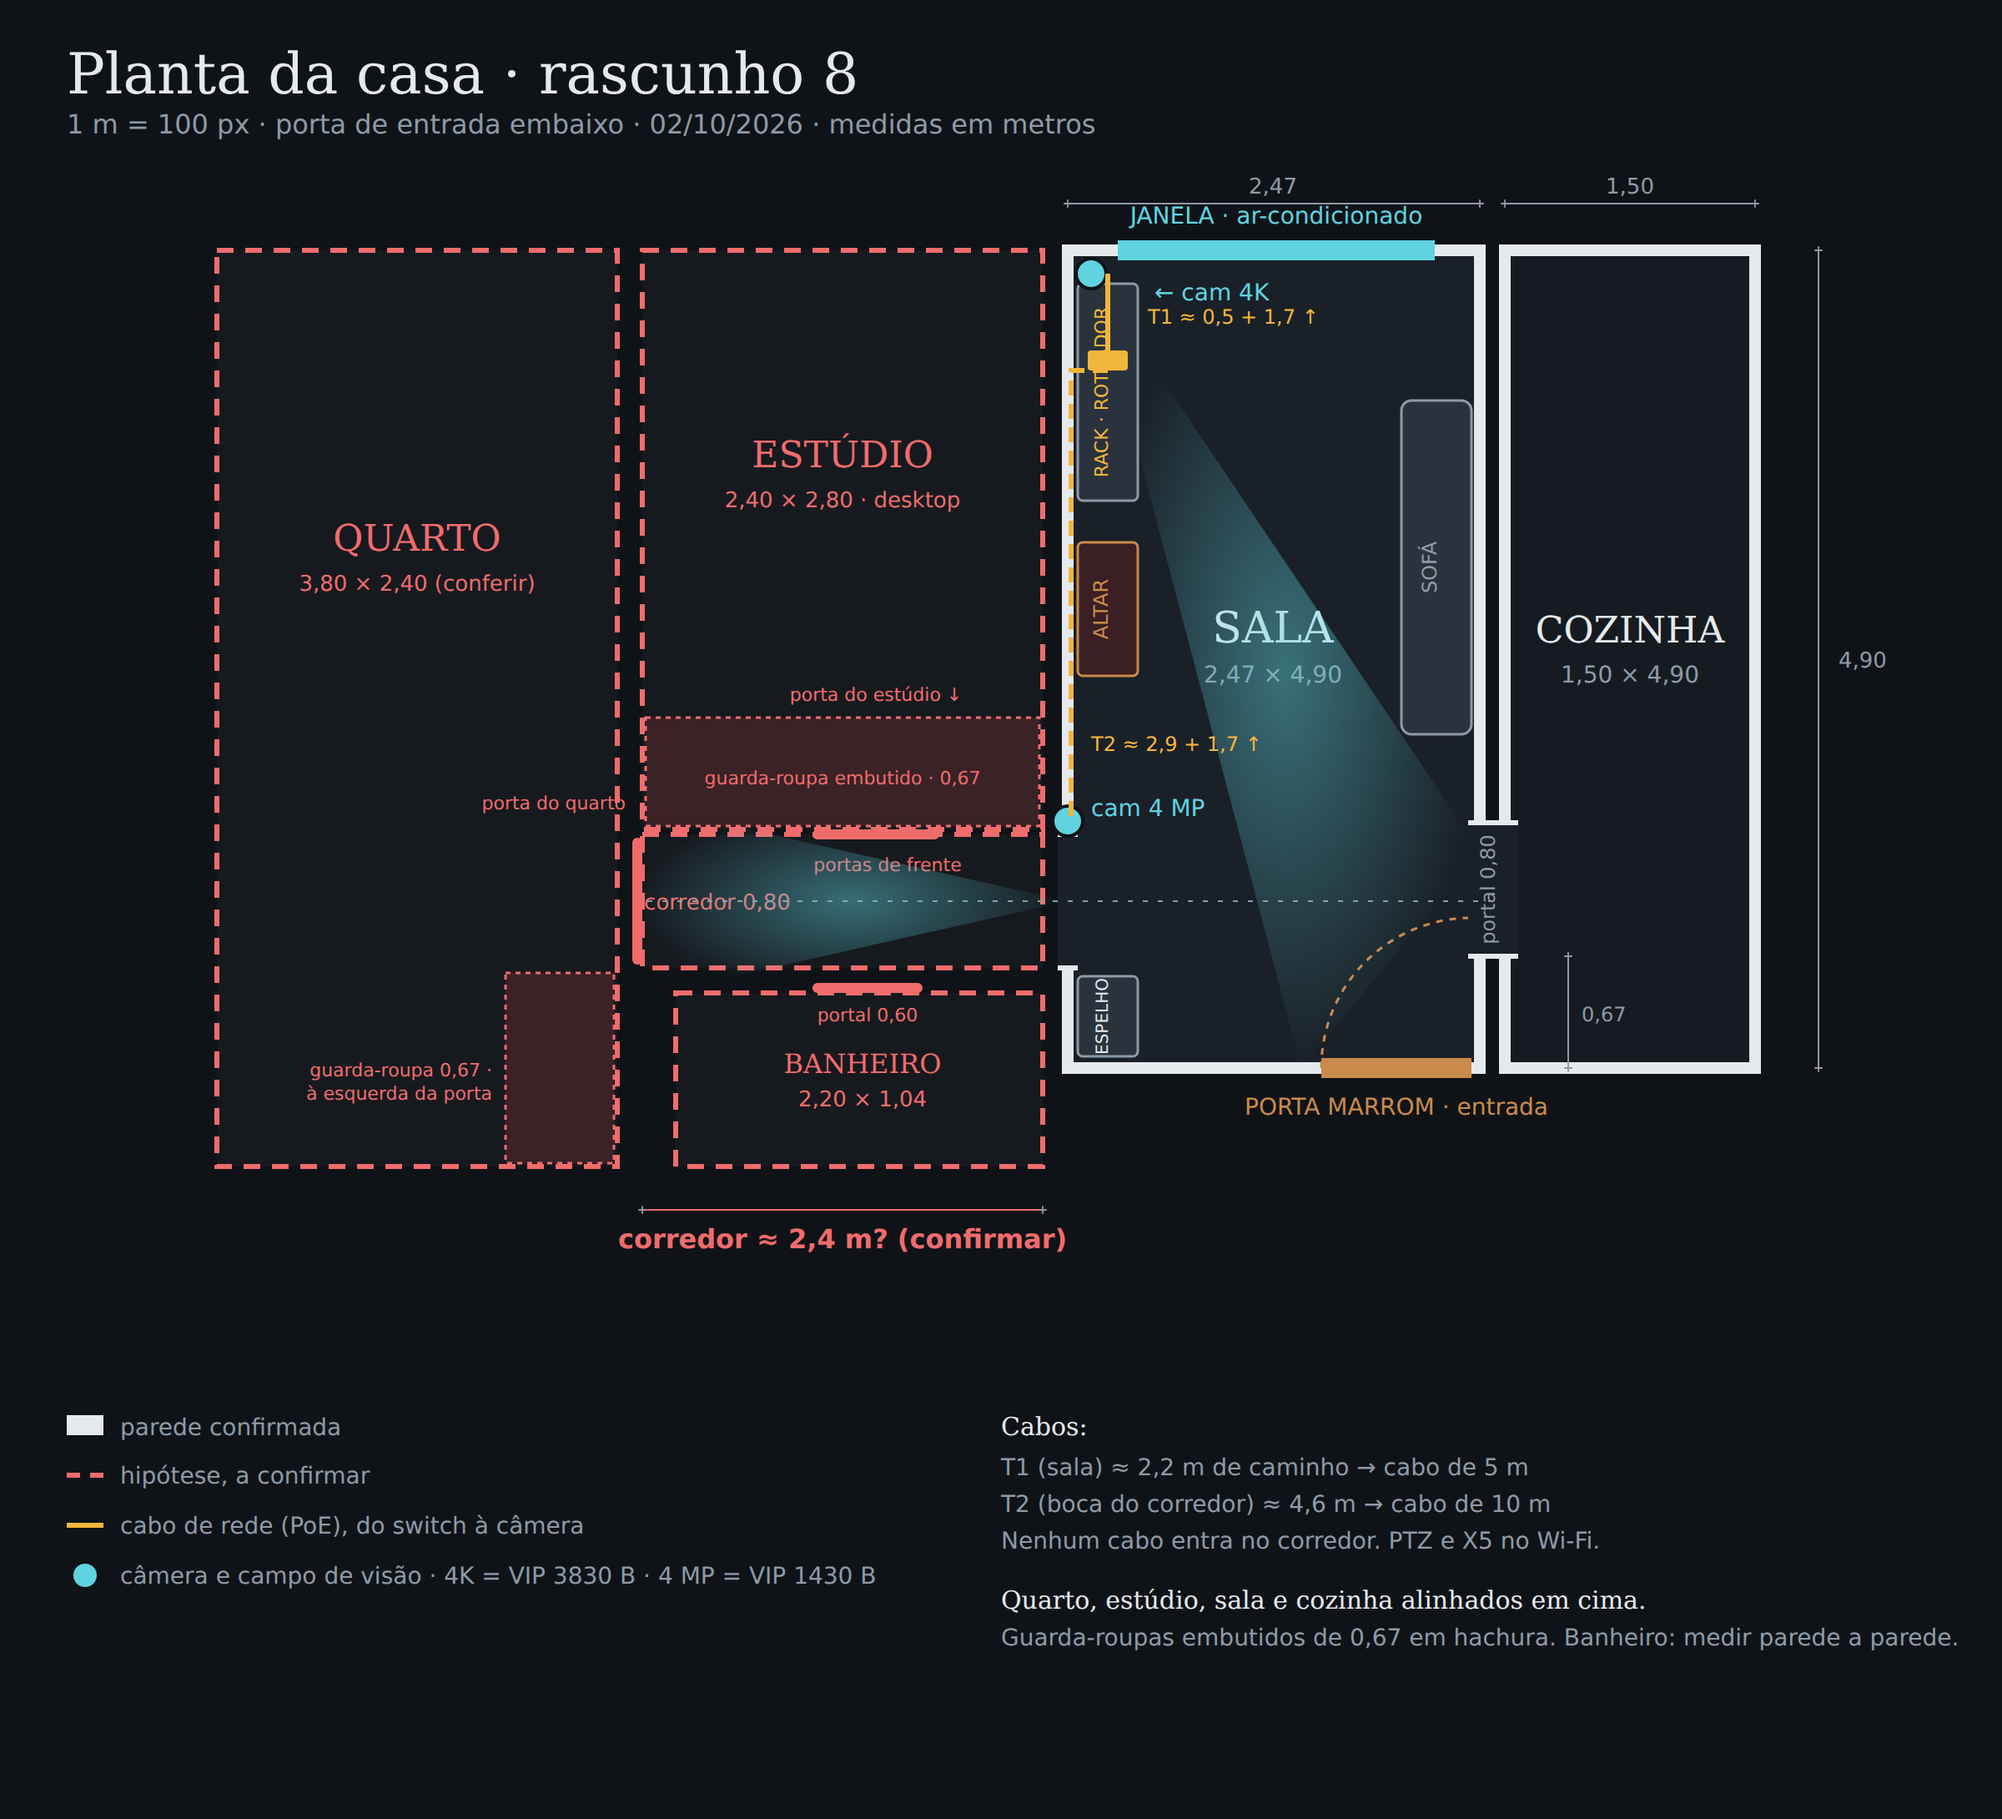
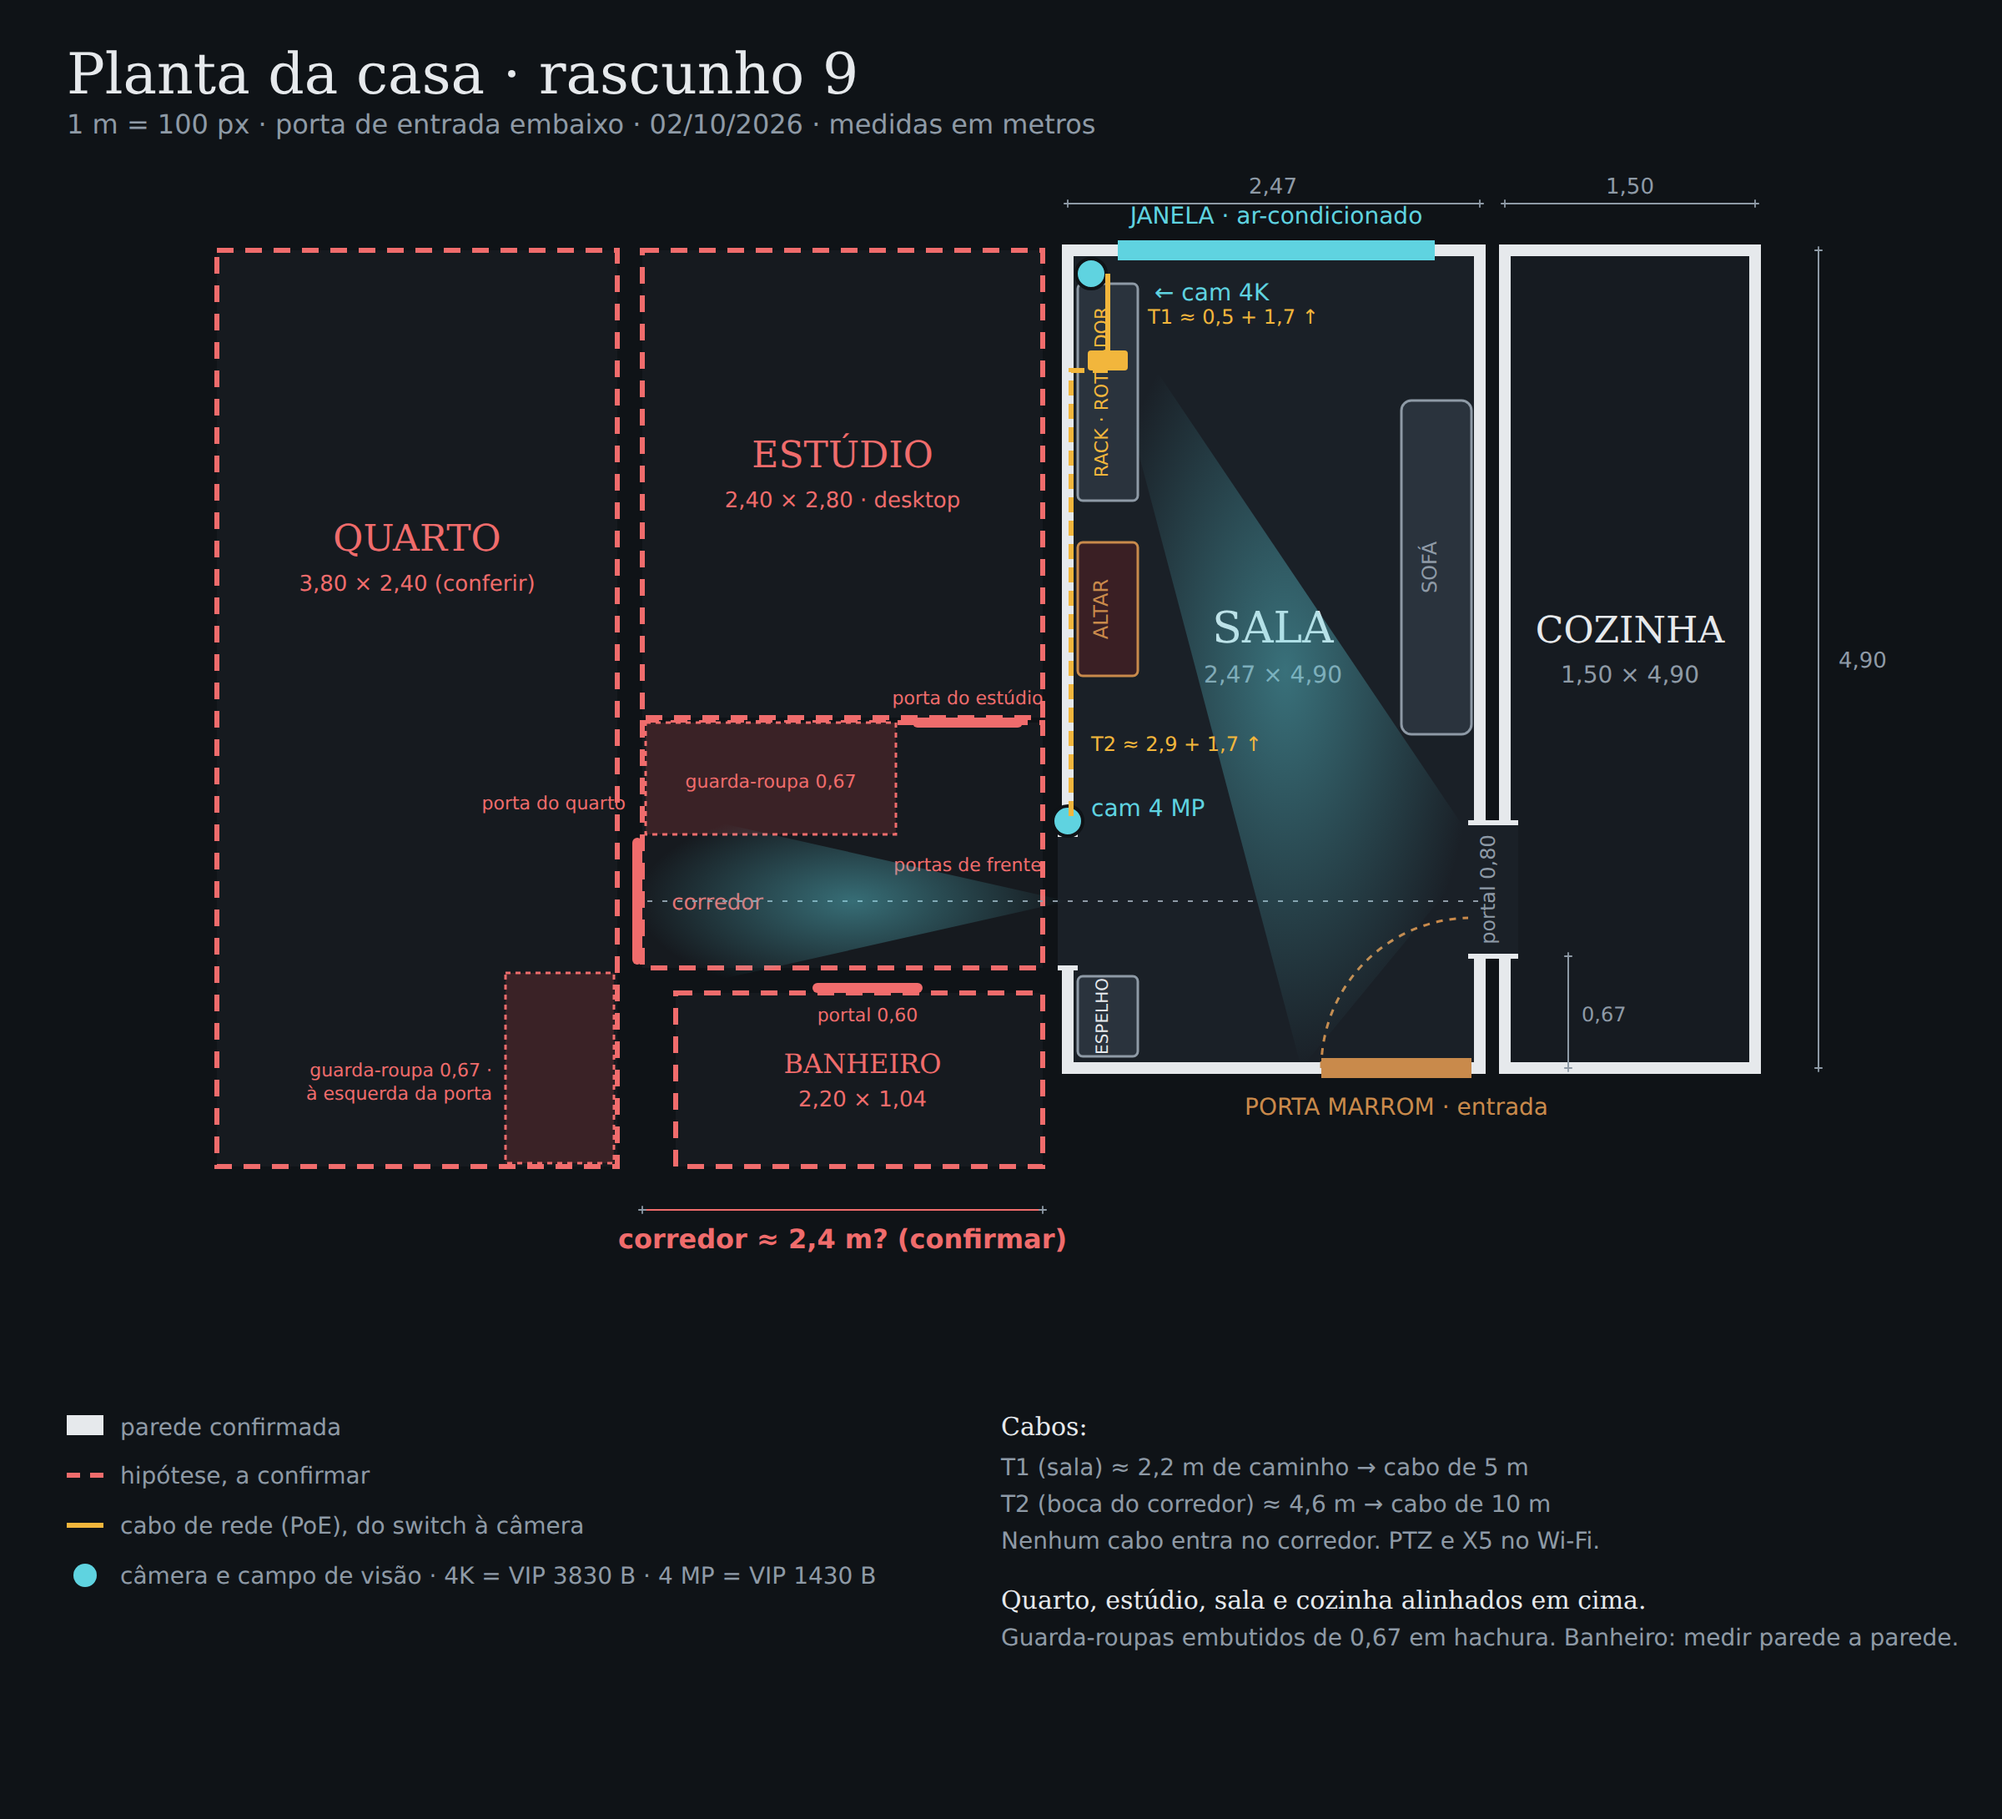
Planta rascunho 9 e página de cabos com medidas fechadas e planta embutida
Claude-Session: https://claude.ai/code/session_01F69cVt87X4mSze32jm77sF

Changed region(s): [[0.3125, 0.3743, 0.5312, 0.4991], [0.4062, 0.0312, 0.4375, 0.0624]]

diff --git a/cameras/esquema-cabos.html b/cameras/esquema-cabos.html
@@ -66,10 +66,12 @@ footer{margin-top:40px;font-size:.8rem;color:var(--muted)}
 <div class="wrap">
   <div class="eyebrow">Visões Filmes · casa · 02/10/2026</div>
   <h1>Cabos das Câmeras</h1>
-  <p class="lede">Roteador Vivo e switch PoE ficam no rack da TV. Dois trechos de cabo de rede saem dali. Mede com trena, preenche os campos, a página calcula o que comprar. Os valores ficam salvos neste navegador.</p>
+  <p class="lede">Roteador Vivo e switch PoE ficam no rack da TV, na parede do altar. As duas câmeras ficam nessa mesma parede. Os campos já vêm com as medidas da planta; ajusta se a trena disser outra coisa. Os valores ficam salvos neste navegador.</p>
 
   <section>
-    <h2>Planta esquemática</h2>
+    <h2>Planta</h2>
+    <div class="panel plan" style="padding:8px"><img src="planta-rascunho.png" alt="Planta da casa com câmeras e cabos" style="width:100%;height:auto;display:block;border-radius:6px"></div>
+    <h2 style="margin-top:18px">Esquema dos trechos</h2>
     <div class="panel plan">
       <svg viewBox="0 0 760 420" role="img" aria-label="Planta esquemática do apartamento com roteador, switch, câmeras e trechos de cabo">
         <defs>
@@ -148,20 +150,20 @@ footer{margin-top:40px;font-size:.8rem;color:var(--muted)}
         <header><span class="tag cable">T1</span><strong>Switch → VIP 3830 B</strong><span class="tag">sala</span></header>
         <div class="path">Sai do rack, corre pelo rodapé ou atrás do rack até a quina da parede da janela, sobe até o ponto da câmera no alto.</div>
         <div class="fields">
-          <label>rack → quina (m)<input type="number" id="t1a" min="0" step="0.1" inputmode="decimal" placeholder="0,0"></label>
-          <label>subida até a câmera (m)<input type="number" id="t1b" min="0" step="0.1" inputmode="decimal" placeholder="0,0"></label>
+          <label>rack → quina (m)<input type="number" id="t1a" min="0" step="0.1" inputmode="decimal" placeholder="0,0" value="0.5"></label>
+          <label>subida até a câmera (m)<input type="number" id="t1b" min="0" step="0.1" inputmode="decimal" placeholder="0,0" value="1.7"></label>
         </div>
         <div class="result"><span>Caminho <b id="t1sum">—</b> · com folga <b id="t1need">—</b></span><span>Comprar <b class="buy" id="t1buy">—</b></span></div>
       </div>
 
       <div class="panel">
-        <header><span class="tag cable">T2</span><strong>Switch → VIP 1430 B</strong><span class="tag">corredor</span></header>
-        <div class="path">Sai do rack, rodapé da sala até a passagem pro corredor, segue pelo corredor até o ponto, sobe até a câmera. É o trecho do fio longo.</div>
+        <header><span class="tag cable">T2</span><strong>Switch → VIP 1430 B</strong><span class="tag">boca do corredor</span></header>
+        <div class="path">Sai do rack, desce pelo rodapé da parede do altar até a boca do corredor, sobe até a câmera, que fica na sala, em cima da abertura, olhando pra dentro do corredor. Nenhum cabo entra no corredor.</div>
         <div class="fields">
-          <label>rack → passagem (m)<input type="number" id="t2a" min="0" step="0.1" inputmode="decimal" placeholder="0,0"></label>
-          <label>passagem → ponto (m)<input type="number" id="t2b" min="0" step="0.1" inputmode="decimal" placeholder="0,0"></label>
-          <label>subida até a câmera (m)<input type="number" id="t2c" min="0" step="0.1" inputmode="decimal" placeholder="0,0"></label>
-          <label>fio longo que já tenho (m)<input type="number" id="t2have" min="0" step="0.5" inputmode="decimal" placeholder="0,0"></label>
+          <label>rack → boca do corredor (m)<input type="number" id="t2a" min="0" step="0.1" inputmode="decimal" placeholder="0,0" value="2.9"></label>
+          <label>dentro do corredor (m)<input type="number" id="t2b" min="0" step="0.1" inputmode="decimal" placeholder="0,0" value="0"></label>
+          <label>subida até a câmera (m)<input type="number" id="t2c" min="0" step="0.1" inputmode="decimal" placeholder="0,0" value="1.7"></label>
+          <label>fio longo que já tenho, se servir (m)<input type="number" id="t2have" min="0" step="0.5" inputmode="decimal" placeholder="0,0"></label>
         </div>
         <div class="result"><span>Caminho <b id="t2sum">—</b> · com folga <b id="t2need">—</b></span><span class="status" id="t2status">preencha os campos</span></div>
       </div>
@@ -198,7 +200,7 @@ footer{margin-top:40px;font-size:.8rem;color:var(--muted)}
     </div>
   </section>
 
-  <footer>Trechos T1 e T2 são propostas a partir do vídeo do apartamento. Microcartão SD dispensado: gravação pelo desktop (OBS ou app próprio).</footer>
+  <footer>Planta: rascunho 9 de 02/10/2026, fundo da casa ainda como hipótese. Microcartão SD dispensado: gravação pelo desktop (OBS ou app próprio).</footer>
 </div>
 
 <script>
